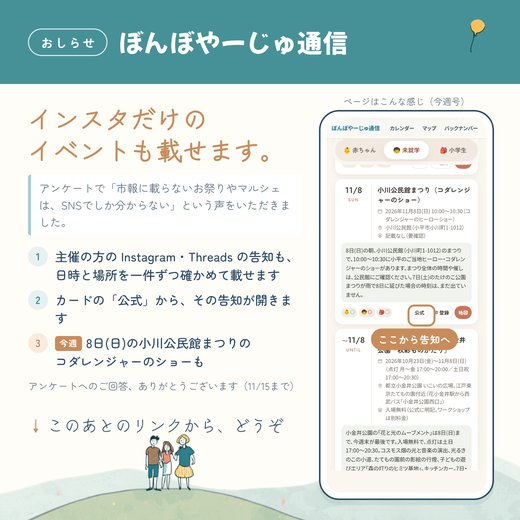
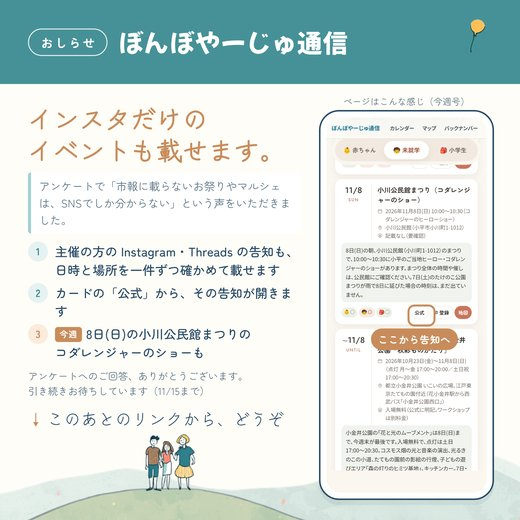
11/4号の案内画像: 「アンケート、引き続きお待ちしています」を入れる（オーナー）
Claude-Session: https://claude.ai/code/session_01TyaNTcqynAhK5RxtQUWRVv

Changed region(s): [[0.0615, 0.4615, 0.5538, 0.8308], [0.0615, 0.3385, 0.5538, 0.4308]]

diff --git a/docs/print/line/sns-2026-11-04.html b/docs/print/line/sns-2026-11-04.html
@@ -58,7 +58,10 @@
   .call2{ position:absolute; z-index:4; left:742px; top:664px; }
   .call2 .bubble{ background:#C88C5C; color:#fff; font-weight:700; font-size:20px; border-radius:999px; padding:7px 14px; letter-spacing:.04em; white-space:nowrap; }
   .voice{ margin-top:18px; font-size:22px; line-height:1.55; color:#5C7487; background:#fff; border-left:6px solid #9FD0D2; padding:10px 16px; border-radius:6px; }
-  .thanks{ margin-top:16px; font-size:20px; color:#5C7487; }
+  .thanks{ margin-top:14px; font-size:20px; line-height:1.5; color:#5C7487; }
+  .go{ margin-top:16px !important; }
+  .voice{ margin-top:14px !important; }
+  .feat{ margin-top:18px !important; gap:10px !important; }
 </style></head><body>
 <div class="page">
   <div class="top">
@@ -75,7 +78,7 @@
       <li><span class="dot">2</span><span>カードの「公式」から、その告知が開きます</span></li>
       <li class="new"><span class="dot">3</span><span><span class="newtag">今週</span>8日(日)の小川公民館まつりの<br>コダレンジャーのショーも</span></li>
     </ul>
-    <p class="thanks">アンケートへのご回答、ありがとうございます（11/15まで）</p>
+    <p class="thanks">アンケートへのご回答、ありがとうございます。<br>引き続きお待ちしています（11/15まで）</p>
     <div class="go"><span class="arr">↓</span>このあとのリンクから、どうぞ</div>
   </div>
 
